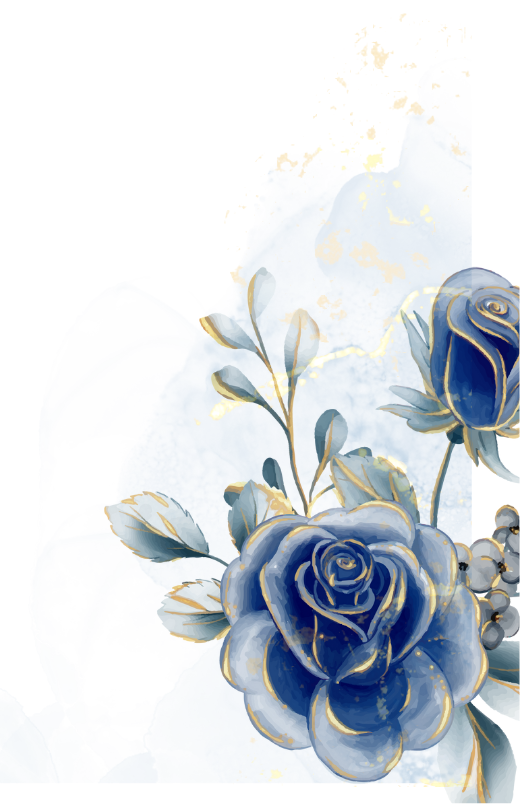
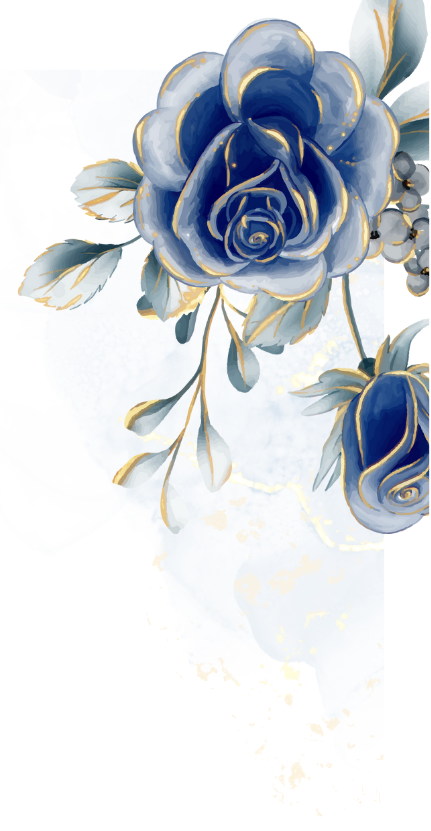
update tema 3

diff --git a/resources/views/tema-undangan/tema3.blade.php b/resources/views/tema-undangan/tema3.blade.php
@@ -349,7 +349,7 @@
             box-shadow: 0 4px 15px rgba(0, 0, 0, 0.08);
             margin: 1.5rem auto;
             text-align: center;
-            color: var(--accent-color-1);
+            color: var(--primary-color);
             font-size: 0.95rem;
             line-height: 1.7;
         }
@@ -413,7 +413,7 @@
         }
 
         .ornament-top-left {
-            top: 15px;
+            top: 5px;
             left: 0;
             width: 250px;
             height: 250px;
@@ -422,12 +422,12 @@
         }
 
         .ornament-bottom-right {
-            bottom: 15px;
+            top: 5px;
             right: 0px;
             width: 250px;
             height: 250px;
-            background-image: url("{{ asset('tema3/img/left.png') }}");
-            transform: rotate(180deg);
+            background-image: url("{{ asset('tema3/img/right.png') }}");
+            /* transform: rotate(180deg); */
             animation: float-subtle-rotated 6s ease-in-out infinite .5s;
         }
 
@@ -509,7 +509,7 @@
 
         .hope-text {
             font-family: var(--font-primary);
-            color: var(--accent-color-1);
+            color: var(--primary-color);
             font-size: .95rem;
             margin-bottom: 20px;
             font-weight: 400;
@@ -632,8 +632,9 @@
 
         .btn-instagram {
             font-family: var(--font-primary);
+            background-color: var(--primary-color);
             border-color: var(--accent-color-1);
-            color: var(--accent-color-1);
+            color: white;
             border-radius: 20px;
             padding: 6px 15px;
             font-size: .85rem;
